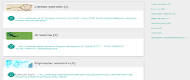
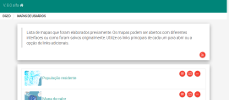
Reformulação da página inicial e atualização dos ícones

diff --git a/init/index.js b/init/index.js
@@ -1,27 +1,27 @@
 botoesIni = [
 {
-	"img":"openlayers",
+	"img":"imagens/openlayers.png",
 	"href": location.href.replace("init/index.php"+window.location.search,"") + customDir + "/ol.htm",
 	"titulo":$trad(4,g_traducao_init),
 	"subtitulo": $trad("4a",g_traducao_init),
 	"fa": "map-o",
 	"target": "_blank"
 },{
-	"img":"osm",
+	"img":"imagens/osm.png",
 	"href": location.href.replace("init/index.php"+window.location.search,"") + customDir + "/osm.htm",
 	"titulo":$trad(23,g_traducao_init),
 	"subtitulo": $trad("23a",g_traducao_init),
 	"fa": "map-o",
 	"target": "_blank"
 },{
-	"img":"googlemaps",
+	"img":"imagens/googlemaps.png",
 	"href": location.href.replace("init/index.php"+window.location.search,"") + customDir + "/gm.phtml",
 	"titulo":$trad(6,g_traducao_init),
 	"subtitulo": $trad("6a",g_traducao_init),
 	"fa": "map-o",
 	"target": "_blank"
 },{
-	"img":"mashup",
+	"img":"imagens/mashup.png",
 	"href": "../mashups/index.php",
 	"titulo":$trad(18,g_traducao_init) + "<br><a href='../mashups/osm.php?temas=&largura=800&altura=500' target=_blank >OSM</a>" + " - <a href='../mashups/openlayers.php?temas=&largura=800&altura=500' target=_blank >OpenLayers</a>",
 	"subtitulo": $trad("18a",g_traducao_init),
@@ -46,21 +46,21 @@ botoesIni = [
 },
 */
 {
-	"img":"window-duplicate",
+	"img":"imagens/window-duplicate.png",
 	"href": "../mapas/index.php",
 	"titulo":$trad(34,g_traducao_init),
 	"subtitulo": $trad("34a",g_traducao_init),
 	"fa": "map-o",
 	"target": "_self"
 },{
-	"img":"ogc_logo",
+	"img":"imagens/ogc_logo.png",
 	"href": "../ogc/index.php",
 	"titulo":$trad(11,g_traducao_init),
 	"subtitulo": $trad("11a",g_traducao_init),
 	"fa": "download",
 	"target": "_self"
 },{
-	"img":"application-vnd-google-earth-kml",
+	"img":"imagens/application-vnd-google-earth-kml.png",
 	"href": "../kml.php",
 	"titulo":$trad(12,g_traducao_init),
 	"subtitulo": $trad("12a",g_traducao_init),
@@ -78,35 +78,35 @@ botoesIni = [
 },
 */
 {
-	"img":"insert-link",
+	"img":"imagens/insert-link.png",
 	"href": "../permlinks/index.php",
 	"titulo":$trad(13,g_traducao_init),
 	"subtitulo": $trad("13a",g_traducao_init),
 	"fa": "map-o",
 	"target": "_self"
 },{
-	"img":"openlayersdebug",
+	"img":"imagens/openlayersdebug.png",
 	"href": location.href.replace("init/index.php"+window.location.search,"") +  customDir + "/openlayersdebug.htm",
 	"titulo":$trad(5,g_traducao_init),
 	"subtitulo": $trad("5a",g_traducao_init),
 	"fa": "cogs",
 	"target": "_blank"
 },{
-	"img":"certificate-server",
+	"img":"imagens/certificate-server.png",
 	"href": "../testainstal/index.php",
 	"titulo":$trad(2,g_traducao_init),
 	"subtitulo": $trad("2a",g_traducao_init),
 	"fa": "cogs",
 	"target": "_self"
 },{
-	"img":"applications-development-web",
+	"img":"imagens/applications-development-web.png",
 	"href": "../admin",
 	"titulo":$trad(3,g_traducao_init),
 	"subtitulo": $trad("3a",g_traducao_init),
 	"fa": "cogs",
 	"target": "_self"
 },{
-	"img":"applications-development",
+	"img":"imagens/applications-development.png",
 	"href": "../utilitarios/index.php",
 	"titulo":$trad(33,g_traducao_init),
 	"subtitulo": $trad("33a",g_traducao_init),
@@ -146,28 +146,28 @@ botoesIni = [
 },
 */
 {
-	"img":"tools-report-bug",
+	"img":"imagens/tools-report-bug.png",
 	"href":"https://softwarepublico.gov.br/gitlab/i3geo/i3geo/issues",
 	"titulo":$trad(16,g_traducao_init),
 	"subtitulo": $trad("16a",g_traducao_init),
 	"fa": "group",
 	"target": "_self"
 },{
-	"img":"apple-touch-icon",
+	"img":"imagens/apple-touch-icon.png",
 	"href":"https://softwarepublico.gov.br/gitlab/groups/i3geo",
 	"titulo":$trad(30,g_traducao_init),
 	"subtitulo": $trad("30a",g_traducao_init),
 	"fa": "book",
 	"target": "_self"
 },{
-	"img":"logo_psp",
+	"img":"imagens/logo_psp.png",
 	"href":"https://portal.softwarepublico.gov.br/social/i3geo/",
 	"titulo":$trad(31,g_traducao_init),
 	"subtitulo": $trad("31a",g_traducao_init),
 	"fa": "group",
 	"target": "_self"
 },{
-	"img":"mailman",
+	"img":"imagens/mailman.png",
 	"href":"http://lists.osgeo.org/cgi-bin/mailman/listinfo/i3geo",
 	"titulo":$trad(32,g_traducao_init),
 	"subtitulo": $trad("32a",g_traducao_init),

diff --git a/init/head.php b/init/head.php
@@ -262,8 +262,17 @@ h2 small {
     box-shadow: 0 1px 1px 0 rgba(0,0,0,.12),0 1px 1px 0 rgba(0,0,0,.2);
 }
 
-.cartao {
-
+.thumbnail {
+    display: block;
+    padding: 0px;
+    margin-bottom: 20px;
+    line-height: 0;
+    background-color: unset;
+    border: 0px;
+    border-radius: 0px;
+    -webkit-transition: border .2s ease-in-out;
+    -o-transition: border .2s ease-in-out;
+    transition: border .2s ease-in-out;
 }
 /* === For phones =================================== */
 @media (max-width: 767px) {

diff --git a/ms_configura.php b/ms_configura.php
@@ -509,7 +509,7 @@ $emailInstituicao = "geoprocessamento@mma.gov.br";
 	Tipo:
 	{string}
 */
-$googleApiKey = "";
+$googleApiKey = "AIzaSyCtZgaVikmt158i2sI6B1TVJHa40rUXUL0";
 /*
 Variable: metaestatTemplates
 

diff --git a/init/imagens/sprite.php b/init/imagens/sprite.php
@@ -1,4 +1,5 @@
 <?php
+exit;
 include('../../pacotes/picStylizer/picStylizer.php');
 
 // initialize
